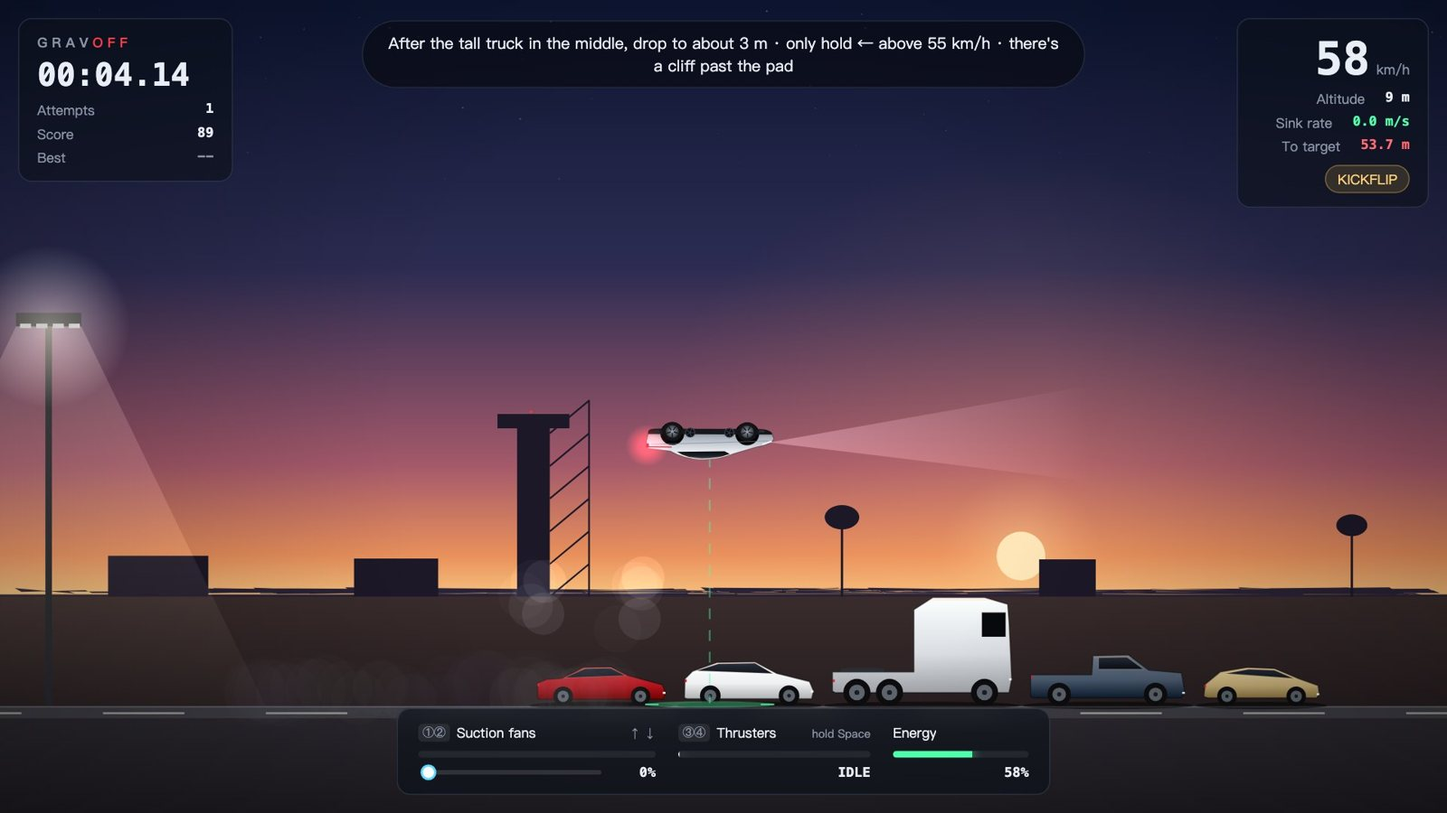
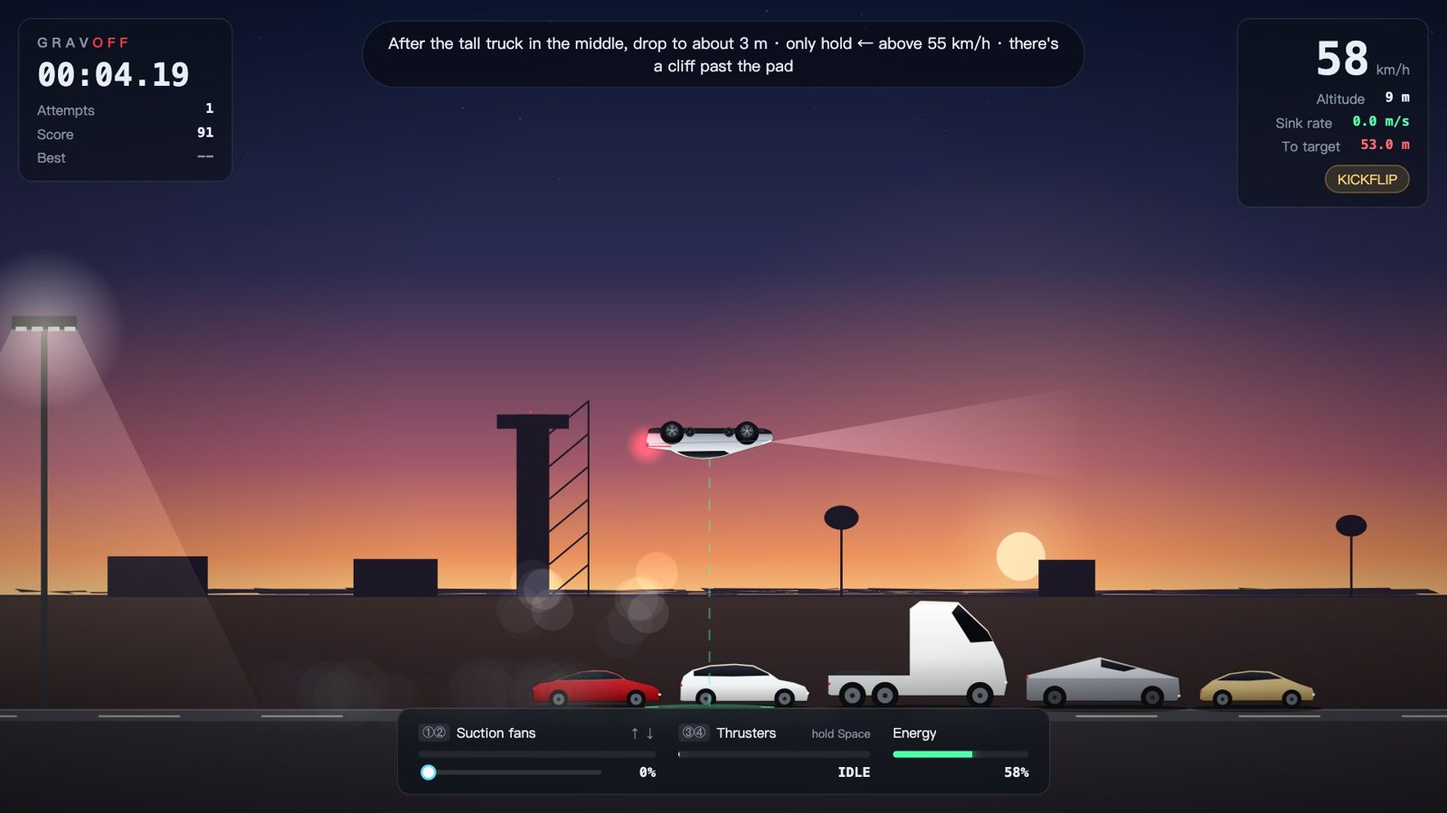
8 original 8-bit tracks picked at random per run; restyled parked cars

diff --git a/public/js/music.js b/public/js/music.js
@@ -1,19 +1,24 @@
 /* 8-bit 背景音乐（原创）
- * 两首曲子都是为本游戏原创编写的旋律，用 WebAudio 实时合成，不使用任何采样或外部音频文件，因此不存在版权问题；
- * 和弦进行与音阶属于通用音乐素材。
+ * 8 首曲子都是为本游戏原创编写的旋律，用 WebAudio 实时合成，不使用任何采样或外部音频文件，因此不存在版权问题；
+ * 和弦进行、音阶和节奏型属于通用音乐素材。每局随机播放一首（不和上一首重复），暂停菜单里可以换下一首。
  *
- * 两首曲子用两套不同的 8-bit 音色（inst）：
- *   loop「Inverted Deck」—— 8-bit 主机风格：50% 方波主旋律 + 重颤音、25% 脉冲 16 分音符琶音、三角波奔马贝斯、
- *                          切分低沉底鼓、八分音符镲；5-bit 量化 + 低通，偏暗、偏厚
- *   kick「Kickflip Over Five」—— 掌机风格：12.5% 细脉冲主旋律 + 回声、32 分音符三音快速琶音、25% 脉冲八度贝斯、
- *                          四拍底鼓 + 拍手军鼓 + 16 分音符镲和开镲；3-bit 量化，偏亮、偏颗粒
+ * 每首曲子有自己的音色（inst）和节奏型，风格各不相同：
+ *   loop     Inverted Deck       A 小调 132 BPM：8-bit 主机风格，方波主旋律 + 三角波奔马贝斯，偏暗偏厚
+ *   kick     Kickflip Over Five  D 大调 152 BPM：掌机风格，细脉冲主旋律 + 回声，四拍底鼓 + 拍手，偏亮
+ *   desert   Desert Sunset       E 小调 100 BPM：慢速半拍鼓，三角波长音 + 颤音，西部黄昏
+ *   neon     Neon Drift          C 小调 118 BPM：合成器浪潮，反拍镲 + 八度贝斯 + 回声
+ *   shuffle  Pit Lane Shuffle    G 布鲁斯 136 BPM：摇摆节奏（swing），行走贝斯，属七和弦
+ *   hyper    Hyper Boost         D 小调 174 BPM：碎拍鼓（底鼓 1、3.5 拍），16 分音符镲，最快最紧张
+ *   march    Launch Pad March    降 B 大调 112 BPM：进行曲，军鼓滚奏，根音 - 五度贝斯
+ *   waltz    Zero-G Waltz        A 大调 3/4 拍：圆舞曲，"嘭 - 恰 - 恰"
  *
  * 跟游戏节奏联动（setIntensity）：
  *   0 = 地面行驶：鼓 + 贝斯
  *   1 = 爬上半环 / 过起飞线：加入主旋律
  *   2 = 倒挂 / 腾空 / 降落：再加入快速琶音，紧张感最强
  *
- * 记谱：每小节 16 个十六分音符，用空格分隔；音名如 E5、F#4；"." 延续上一个音；"-" 休止
+ * 记谱：每小节 steps 个十六分音符（默认 16，3/4 拍为 12），用空格分隔；音名如 E5、F#4；"." 延续上一个音；"-" 休止
+ * 贝斯数组里 -1 表示这一步不弹
  */
 (function (root) {
   'use strict';
@@ -36,7 +41,7 @@
   const TRACKS = {
     // 倒立半环「Inverted Deck」：A 小调，132 BPM，切分底鼓，紧张向上
     loop: {
-      bpm: 132,
+      bpm: 132, title: { en: 'Inverted Deck', zh: '倒挂甲板' },
       chords: [['A2', 0, 3, 7], ['F2', 0, 4, 7], ['C3', 0, 4, 7], ['G2', 0, 4, 7], ['A2', 0, 3, 7], ['F2', 0, 4, 7], ['G2', 0, 4, 7], ['E2', 0, 4, 7]],
       lead: [
         'E5 . . C5 . A4 . . B4 C5 D5 . E5 . . .',
@@ -56,7 +61,7 @@
     },
     // 飞越车阵「Kickflip Over Five」：D 大调，152 BPM，四拍底鼓，明快冲刺
     kick: {
-      bpm: 152,
+      bpm: 152, title: { en: 'Kickflip Over Five', zh: '飞越五车' },
       chords: [['D3', 0, 4, 7], ['B2', 0, 3, 7], ['G2', 0, 4, 7], ['A2', 0, 4, 7], ['D3', 0, 4, 7], ['B2', 0, 3, 7], ['G2', 0, 4, 7], ['A2', 0, 4, 7]],
       lead: [
         'D5 . F#5 . A5 . F#5 . D5 . E5 F#5 . . A4 .',
@@ -73,6 +78,126 @@
       inst: { lead: 'p12', leadVol: 0.13, vib: 0.008, echo: true, arp: 'p12', arpNotes: 3, arpVol: 0.05, bass: 'p25', bassVol: 0.15,
         bits: 8, lowpass: 0, kickHz: [190, 55], snareHz: 2600, clap: true, level: 2.2 },
       fill: 'A4 B4 C#5 D5 E5 F#5 G5 A5 B5 C#6 D6 . E6 . F#6 .',
+    },
+    // 沙漠落日「Desert Sunset」：E 小调，100 BPM，半拍鼓，三角波长音
+    desert: {
+      bpm: 100, title: { en: 'Desert Sunset', zh: '沙漠落日' },
+      chords: [['E2', 0, 3, 7], ['C2', 0, 4, 7], ['D2', 0, 4, 7], ['E2', 0, 3, 7], ['E2', 0, 3, 7], ['C2', 0, 4, 7], ['D2', 0, 4, 7], ['B1', 0, 4, 7]],
+      lead: [
+        'B4 . . . E5 . . . G5 . F#5 . E5 . . .',
+        'G5 . . . E5 . C5 . . . E5 . G5 . . .',
+        'F#5 . . . D5 . A4 . . . D5 . F#5 . A5 .',
+        'G5 . . . . . F#5 . E5 . . . - - - -',
+        'B5 . . . A5 . G5 . F#5 . . . E5 . . .',
+        'G5 . . . E5 . . . C5 . E5 . G5 . A5 .',
+        'A5 . . . F#5 . D5 . . . A4 . D5 . F#5 .',
+        'D#5 . . . F#5 . . . B5 . . . A5 . F#5 .',
+      ],
+      kick: [0, 10], snare: [8], ghost: [], hatAccent: [4, 12], hats: [0, 4, 8, 12], openHat: [],
+      bass: [0, -1, -1, -1, -1, -1, 7, -1, 12, -1, -1, -1, 7, -1, -1, -1],
+      inst: { lead: 'triangle', leadVol: 0.16, vib: 0.025, echo: true, arp: 'p25', arpNotes: 1, arpVol: 0.035, bass: 'triangle', bassVol: 0.26, bassLen: 2,
+        bits: 16, lowpass: 2400, kickHz: [110, 40], snareHz: 1200, clap: false, level: 0.8 },
+      fill: 'E5 . F#5 . G5 . A5 . B5 . . . D#5 . F#5 .',
+    },
+    // 霓虹漂移「Neon Drift」：C 小调，118 BPM，反拍镲 + 八度贝斯
+    neon: {
+      bpm: 118, title: { en: 'Neon Drift', zh: '霓虹漂移' },
+      chords: [['C3', 0, 3, 7], ['G#2', 0, 4, 7], ['D#3', 0, 4, 7], ['A#2', 0, 4, 7], ['C3', 0, 3, 7], ['G#2', 0, 4, 7], ['A#2', 0, 4, 7], ['G2', 0, 4, 7]],
+      lead: [
+        'G5 . . . D#5 . . C5 . . D#5 . G5 . . .',
+        'G#5 . . . G5 . D#5 . C5 . . . D#5 . . .',
+        'A#5 . . . G5 . . D#5 . . G5 . A#5 . C6 .',
+        'A#5 . . . . . G#5 . G5 . F5 . D5 . . .',
+        'C6 . . . G5 . . D#5 . . G5 . C6 . D6 .',
+        'D#6 . . . C6 . G#5 . . . D#5 . G#5 . . .',
+        'D6 . . . A#5 . F5 . . . D5 . F5 . A#5 .',
+        'B5 . . . D6 . . . G5 . . . F5 . D5 .',
+      ],
+      kick: [0, 4, 8, 12], snare: [4, 12], ghost: [], hatAccent: [2, 6, 10, 14], hats: [2, 6, 10, 14], openHat: [],
+      bass: [0, 0, 12, 0, 0, 0, 12, 0, 0, 0, 12, 0, 0, 0, 12, 0],
+      inst: { lead: 'p25', leadVol: 0.12, vib: 0.015, echo: true, arp: 'p12', arpNotes: 2, arpVol: 0.045, bass: 'p50', bassVol: 0.14,
+        bits: 32, lowpass: 2600, kickHz: [150, 45], snareHz: 1800, clap: true, level: 2.1 },
+      fill: 'C5 D5 D#5 F5 G5 . G#5 . A#5 . B5 . D6 . . .',
+    },
+    // 维修区摇摆「Pit Lane Shuffle」：G 布鲁斯，136 BPM，摇摆八分音符 + 行走贝斯
+    shuffle: {
+      bpm: 136, title: { en: 'Pit Lane Shuffle', zh: '维修区摇摆' },
+      chords: [['G2', 0, 4, 10], ['C3', 0, 4, 10], ['G2', 0, 4, 10], ['G2', 0, 4, 10], ['C3', 0, 4, 10], ['C3', 0, 4, 10], ['G2', 0, 4, 10], ['D3', 0, 4, 10]],
+      lead: [
+        'G4 . A#4 B4 D5 . G4 . F5 . D5 . B4 . G4 .',
+        'E5 . G5 . A#5 . G5 E5 . . C5 . E5 . . .',
+        'D5 . B4 . G4 . A#4 B4 . . D5 . G5 . . .',
+        'F5 . . E5 D5 . B4 . A4 . G4 . - . . .',
+        'C5 . E5 . G5 . A#5 . . . G5 . E5 . C5 .',
+        'D#5 E5 . . G5 . E5 . D#5 E5 . . C5 . . .',
+        'B4 . D5 . G5 . F5 . D5 . B4 . A4 . G4 .',
+        'F#5 . A5 . C6 . A5 . F#5 . D5 . C5 . A4 .',
+      ],
+      kick: [0, 8, 11], snare: [4, 12], ghost: [7, 15], hatAccent: [2, 6, 10, 14], hats: [0, 2, 4, 6, 8, 10, 12, 14], openHat: [14],
+      bass: [0, -1, 4, -1, 7, -1, 9, -1, 10, -1, 9, -1, 7, -1, 4, -1],
+      inst: { lead: 'p50', leadVol: 0.1, vib: 0.02, echo: false, arp: 'p25', arpNotes: 1, arpVol: 0.04, bass: 'triangle', bassVol: 0.26, bassLen: 1.6,
+        bits: 16, lowpass: 3600, kickHz: [140, 45], snareHz: 2000, clap: false, swing: 0.66, level: 0.85 },
+      fill: 'G5 F5 D5 . B4 A#4 A4 G4 . . D5 . G5 . . .',
+    },
+    // 极速推进「Hyper Boost」：D 小调，174 BPM，碎拍鼓
+    hyper: {
+      bpm: 174, title: { en: 'Hyper Boost', zh: '极速推进' },
+      chords: [['D3', 0, 3, 7], ['A#2', 0, 4, 7], ['C3', 0, 4, 7], ['A2', 0, 3, 7], ['D3', 0, 3, 7], ['A#2', 0, 4, 7], ['G2', 0, 3, 7], ['A2', 0, 4, 7]],
+      lead: [
+        'D5 . F5 . A5 . D6 . C6 . A5 . F5 . E5 .',
+        'D5 . F5 . A#5 . D6 . C6 . A#5 . F5 . D5 .',
+        'E5 . G5 . C6 . E6 . D6 . C6 . G5 . E5 .',
+        'A5 . . . E5 . . . C5 . E5 . A5 . . .',
+        'D6 . A5 . F5 . D5 . F5 . A5 . D6 . E6 .',
+        'F6 . D6 . A#5 . F5 . A#5 . D6 . F6 . . .',
+        'G6 . D6 . A#5 . G5 . A#5 . D6 . G6 . F6 .',
+        'E6 . C#6 . A5 . E5 . C#5 . E5 . A5 . . .',
+      ],
+      kick: [0, 10], snare: [4, 12], ghost: [7, 9, 15], hatAccent: [2, 6, 10, 14], hats: [0, 1, 2, 3, 4, 5, 6, 7, 8, 9, 10, 11, 12, 13, 14, 15], openHat: [],
+      bass: [0, -1, -1, 0, -1, -1, 12, -1, -1, -1, 0, -1, -1, 7, -1, -1],
+      inst: { lead: 'p12', leadVol: 0.11, vib: 0, echo: true, arp: 'p12', arpNotes: 3, arpVol: 0.04, bass: 'p50', bassVol: 0.16, bassLen: 2,
+        bits: 8, lowpass: 0, kickHz: [200, 50], snareHz: 2800, clap: false, level: 2.1 },
+      fill: 'D6 C6 A5 F5 D6 C6 A5 F5 E6 C#6 A5 E5 E6 C#6 A5 E5',
+    },
+    // 发射台进行曲「Launch Pad March」：降 B 大调，112 BPM，军鼓滚奏
+    march: {
+      bpm: 112, title: { en: 'Launch Pad March', zh: '发射台进行曲' },
+      chords: [['A#2', 0, 4, 7], ['F2', 0, 4, 7], ['G2', 0, 3, 7], ['D#2', 0, 4, 7], ['A#2', 0, 4, 7], ['F2', 0, 4, 7], ['D#2', 0, 4, 7], ['F2', 0, 4, 7]],
+      lead: [
+        'A#4 . . F4 A#4 . D5 . F5 . . . D5 . A#4 .',
+        'C5 . . A4 C5 . F5 . A5 . . . F5 . C5 .',
+        'D5 . . . G5 . . F5 D5 . . . A#4 . G4 .',
+        'D#5 . . . G5 . . . A#5 . . . G5 . D#5 .',
+        'F5 . . D5 F5 . A#5 . D6 . . . A#5 . F5 .',
+        'A5 . . F5 A5 . C6 . F6 . . . C6 . A5 .',
+        'G5 . . D#5 G5 . A#5 . D#6 . . . D6 . C6 .',
+        'A#5 . . . A5 . . . C6 . . . A5 . F5 .',
+      ],
+      kick: [0, 8], snare: [4, 12, 14, 15], ghost: [6, 13], hatAccent: [], hats: [0, 4, 8, 12], openHat: [],
+      bass: [0, -1, -1, -1, 7, -1, -1, -1, 0, -1, -1, -1, 7, -1, -1, -1],
+      inst: { lead: 'p50', leadVol: 0.11, vib: 0.015, echo: false, arp: 'p25', arpNotes: 2, arpVol: 0.035, bass: 'triangle', bassVol: 0.28, bassLen: 2,
+        bits: 32, lowpass: 3000, kickHz: [120, 40], snareHz: 2200, clap: false, level: 0.9 },
+      fill: 'F5 . F5 F5 G5 . G5 G5 A5 . A5 A5 C6 . . .',
+    },
+    // 零重力圆舞曲「Zero-G Waltz」：A 大调，3/4 拍（每小节 12 个十六分音符），"嘭 - 恰 - 恰"
+    waltz: {
+      bpm: 168, steps: 12, title: { en: 'Zero-G Waltz', zh: '零重力圆舞曲' },
+      chords: [['A2', 0, 4, 7], ['E2', 0, 4, 7], ['F#2', 0, 3, 7], ['D2', 0, 4, 7], ['A2', 0, 4, 7], ['E2', 0, 4, 7], ['D2', 0, 4, 7], ['E2', 0, 4, 7]],
+      lead: [
+        'C#5 . . . E5 . . . A5 . . .',
+        'G#5 . . . . . F#5 . E5 . . .',
+        'F#5 . . . A5 . . . C#6 . . .',
+        'B5 . . . A5 . F#5 . D5 . . .',
+        'E5 . . . A5 . . . C#6 . E6 .',
+        'D6 . . . B5 . . . G#5 . E5 .',
+        'F#5 . . . A5 . . . D6 . . .',
+        'E6 . . . D6 . B5 . G#5 . . .',
+      ],
+      kick: [0], snare: [], ghost: [4, 8], hatAccent: [], hats: [0, 4, 8], openHat: [],
+      bass: [0, -1, -1, -1, 12, -1, -1, -1, 7, -1, -1, -1],
+      inst: { lead: 'p25', leadVol: 0.12, vib: 0.02, echo: true, arp: 'p12', arpNotes: 1, arpVol: 0.04, bass: 'triangle', bassVol: 0.26, bassLen: 2,
+        bits: 16, lowpass: 3000, kickHz: [120, 45], snareHz: 1600, clap: false, level: 0.92 },
+      fill: 'A5 G#5 F#5 E5 D5 C#5 B4 C#5 E5 . G#5 .',
     },
   };
   for (const k in TRACKS) { TRACKS[k].leadNotes = TRACKS[k].lead.map(parse); TRACKS[k].fillNotes = parse(TRACKS[k].fill); }
@@ -101,7 +226,7 @@
       if (this.out) return true;
       this.out = s.ctx.createGain(); this.out.gain.value = 0;
       this.out.connect(s.master);
-      this.waves = { p12: this.pulse(0.125), p25: this.pulse(0.25), p50: this.pulse(0.5) };
+      this.waves = { p12: this.pulse(0.125), p25: this.pulse(0.25), p50: this.pulse(0.5), triangle: 'triangle' };
       return true;
     }
     // 每首曲子一条独立的总线：分层 → 量化失真（位数随曲目）→ 可选低通 → 输出
@@ -121,10 +246,23 @@
       this.layer = layer;
     }
 
+    // 不传曲名：随机选一首，不和上一首重复
+    pick() {
+      const names = Object.keys(TRACKS).filter((k) => k !== this.last);
+      return names[Math.floor(Math.random() * names.length)];
+    }
+    // 下一首（按列表顺序循环）
+    nextTrack() {
+      const names = Object.keys(TRACKS), i = names.indexOf(this.last);
+      this.play(names[(i + 1) % names.length]);
+    }
+    get title() { return this.last ? TRACKS[this.last].title : null; }
     play(name) {
       if (!this.ensure()) return;
-      if (this.track === TRACKS[name] && this.timer) { this.duck(false); return; }
+      if (name && this.track === TRACKS[name] && this.timer) { this.duck(false); return; }
+      name = name || this.pick();
       this.stop(true);
+      this.last = name;
       this.track = TRACKS[name];
       this.buildBus(this.track.inst);
       const ctx = this.sfx.ctx;
@@ -176,7 +314,9 @@
       if (this.next < ctx.currentTime - 0.5) this.next = ctx.currentTime + 0.05;   // 标签页挂起后恢复：跳过积压
       const sd = this.stepDur, L = this.layer, W = this.waves, I = T.inst;
       while (this.next < ctx.currentTime + 0.15) {
-        const bars = T.chords.length, barIdx = Math.floor(this.step / 16), bar = barIdx % bars, st = this.step % 16, t = this.next;
+        const N = T.steps || 16, bars = T.chords.length, barIdx = Math.floor(this.step / N), bar = barIdx % bars, st = this.step % N;
+        // 摇摆：每拍第二个八分音符往后推（swing = 前一个八分音符占一拍的比例）
+        const sw = I.swing ? (4 * I.swing - 2) * sd : 0, t = this.next + (st % 4 === 2 ? sw : st % 4 === 3 ? sw / 2 : 0);
         const ch = T.chords[bar], root = midi(ch[0]);
         const isFill = (barIdx % (bars * 2)) === bars * 2 - 1;   // 每两轮的最后一小节：上行音阶过门
         // 主旋律（+ 可选回声）
@@ -192,14 +332,14 @@
         }
         // 贝斯
         const b = T.bass[st];
-        if (b >= 0) this.note(L.bass, freq(root + b), t, sd * 0.6, I.bass === 'triangle' ? 'triangle' : W[I.bass], st % 4 === 0 ? I.bassVol : I.bassVol * 0.75);
+        if (b >= 0) this.note(L.bass, freq(root + b), t, sd * (I.bassLen || 0.6), I.bass === 'triangle' ? 'triangle' : W[I.bass], st % 4 === 0 ? I.bassVol : I.bassVol * 0.75);
         // 鼓
         if (T.kick.includes(st)) this.kick(t, I.kickHz);
         if (T.snare.includes(st)) this.snare(t, 0.13, I);
         if (T.ghost.includes(st)) this.snare(t, 0.045, I);
         if (T.hats.includes(st)) this.hat(t, T.hatAccent.includes(st) ? 0.06 : 0.025, 0.03);
         if (T.openHat.includes(st)) this.hat(t, 0.04, 0.12);
-        if (isFill && st >= 12) this.snare(t, 0.07, I);   // 过门加鼓
+        if (isFill && st >= N - 4) this.snare(t, 0.07, I);   // 过门加鼓
         this.step++;
         this.next += sd;
       }

diff --git a/public/js/track.js b/public/js/track.js
@@ -145,23 +145,27 @@
   // ── 场景二：Kickflip 飞越车阵 ────────────────────────────
   // 停放车辆：通用车型剪影（轿车 / SUV / 皮卡 / 小型车 / 重卡，无任何标志）。局部坐标：x 从车尾 0 起（车头朝右），y 从地面 0 起
   const MODELS = {
+    // 车阵里的 5 辆车：纯剪影风格（不画任何标志、徽标或文字），坐标单位 m，x 从车尾到车头，y 从地面往上
     sedan:   { name: 'Sedan', len: 4.72, wr: 0.36, paint: '#b3141c', wheels: [0.95, 3.8],
-            body: [[0, 0.3], [0.02, 0.85], [0.35, 0.98], [0.9, 1.02], [1.7, 1.42], [2.7, 1.44], [3.35, 1.12], [4.6, 0.78], [4.72, 0.5], [4.65, 0.25], [0.1, 0.25]],
-            glass: [[1.0, 1.04], [1.75, 1.38], [2.7, 1.4], [3.25, 1.12]] },
+            // 低矮的溜背轿车：整块玻璃车顶从风挡一直延伸到车尾，短鸭尾
+            body: [[0, 0.32], [0.03, 0.82], [0.25, 0.96], [0.7, 1.02], [1.2, 1.18], [1.7, 1.36], [2.2, 1.44], [2.7, 1.43], [3.1, 1.31], [3.45, 1.1], [3.9, 0.99], [4.4, 0.87], [4.65, 0.72], [4.72, 0.55], [4.65, 0.3], [0.1, 0.28]],
+            glass: [[0.85, 1.05], [1.3, 1.21], [1.8, 1.37], [2.25, 1.4], [2.7, 1.39], [3.08, 1.28], [3.36, 1.11], [2.2, 1.07]] },
     suv:     { name: 'SUV', len: 4.75, wr: 0.38, paint: '#eef0f2', wheels: [0.95, 3.85],
-            body: [[0, 0.3], [0.02, 1.0], [0.3, 1.28], [1.2, 1.6], [2.6, 1.62], [3.4, 1.2], [4.6, 0.9], [4.75, 0.55], [4.68, 0.27], [0.1, 0.27]],
-            glass: [[0.45, 1.3], [1.25, 1.56], [2.6, 1.58], [3.25, 1.2]] },
-    pickup:  { name: 'Pickup', len: 5.68, wr: 0.43, paint: '#4a5a6e', wheels: [1.05, 4.6],
-            // 常见的皮卡造型：后面是货斗，中间是驾驶室，前面是引擎盖
-            body: [[0, 0.35], [0, 1.15], [2.25, 1.15], [2.3, 1.85], [3.6, 1.88], [4.35, 1.32], [5.55, 1.22], [5.68, 0.5], [5.55, 0.3], [0.12, 0.3]],
-            glass: [[2.5, 1.78], [3.55, 1.8], [4.15, 1.36], [2.5, 1.36]] },
+            // 圆润的跨界 SUV：高车顶，圆弧尾门，短而圆的车头
+            body: [[0, 0.32], [0.02, 0.95], [0.12, 1.22], [0.45, 1.45], [1.1, 1.62], [2.0, 1.68], [2.7, 1.62], [3.3, 1.33], [3.65, 1.09], [4.2, 0.98], [4.6, 0.84], [4.75, 0.6], [4.68, 0.3], [0.1, 0.29]],
+            glass: [[0.5, 1.4], [1.12, 1.57], [2.0, 1.63], [2.68, 1.57], [3.24, 1.31], [3.3, 1.23], [1.9, 1.2], [0.5, 1.22]] },
+    pickup:  { name: 'Pickup', len: 5.68, wr: 0.43, paint: '#a9adb3', wheels: [1.05, 4.65], flat: true,
+            // 楔形皮卡：车斗和车顶连成一条直线升到车顶尖，再一条直线降到车头；拉丝不锈钢车身
+            body: [[0, 0.35], [0, 1.25], [2.7, 1.92], [5.62, 1.15], [5.68, 0.5], [5.55, 0.3], [0.12, 0.3]],
+            glass: [[2.75, 1.84], [4.1, 1.5], [3.6, 1.38], [2.75, 1.55]] },
     compact: { name: 'Compact', len: 4.25, wr: 0.36, paint: '#c8b07a', wheels: [0.85, 3.4],
-            body: [[0, 0.35], [0.05, 0.8], [0.6, 1.25], [1.6, 1.42], [2.6, 1.38], [3.5, 1.0], [4.2, 0.75], [4.25, 0.45], [4.15, 0.3], [0.15, 0.3]],
-            glass: [[0.8, 1.2], [1.65, 1.36], [2.6, 1.32], [3.3, 1.02]] },
-    truck:   { name: 'Truck', len: 6.6, wr: 0.5, paint: '#d9dde2', wheels: [0.9, 2.1, 5.6],
-            // 常见的平头牵引车：后面是鞍座底盘，前面是方正的驾驶室，车顶有导流罩
-            body: [[0, 0.55], [0, 1.25], [3.0, 1.25], [3.0, 3.55], [3.7, 4.0], [5.6, 4.0], [6.45, 3.75], [6.5, 3.1], [6.6, 1.0], [6.5, 0.5], [0.1, 0.5]],
-            glass: [[5.5, 3.45], [6.38, 3.45], [6.38, 2.55], [5.5, 2.55]] },
+            // 双门小型车：水滴形车身，车尾斜着收下去，香槟金
+            body: [[0, 0.36], [0.04, 0.72], [0.45, 1.05], [1.1, 1.32], [1.9, 1.43], [2.6, 1.39], [3.2, 1.13], [3.7, 0.93], [4.15, 0.78], [4.25, 0.55], [4.18, 0.32], [0.15, 0.3]],
+            glass: [[0.62, 1.05], [1.15, 1.28], [1.9, 1.38], [2.55, 1.34], [3.08, 1.12], [1.8, 1.04]] },
+    truck:   { name: 'Truck', len: 6.6, wr: 0.5, paint: '#e8eaec', wheels: [0.9, 2.1, 5.6],
+            // 流线型牵引车：后面是鞍座底盘，驾驶室从车顶圆滑地斜下到车头
+            body: [[0, 0.55], [0, 1.25], [3.0, 1.25], [3.0, 3.7], [3.4, 4.0], [4.8, 3.95], [5.9, 2.9], [6.45, 1.8], [6.6, 1.0], [6.5, 0.5], [0.1, 0.5]],
+            glass: [[4.8, 3.86], [5.86, 2.87], [6.08, 2.5], [5.25, 2.45], [4.55, 3.55]] },   // 环绕式大风挡
   };
   const PAD_GAP = +(typeof process !== 'undefined' && process.env && process.env.PAD_GAP) || 20;   // 最后一辆车到停机坪的距离
   function parked(x, model, paint) {

diff --git a/public/js/i18n.js b/public/js/i18n.js
@@ -24,7 +24,7 @@
       'jet.on': '喷射', 'jet.brake': '反推', 'jet.idle': '待命', 'jet.locked': '锁定',
       'fan.low': '吸力不足', 'fan.waste': '吸力富余', 'fan.ok': '吸力 OK', 'fan.grip': '吸地 · 抓地+', 'fan.yield': '喷气时让位',
       'touch.brake': '刹车', 'touch.go': '加速', 'touch.fanUp': '风扇＋', 'touch.fanDn': '风扇－', 'touch.retry': '重来', 'touch.flip': '翻转', 'touch.jet': '推进',
-      'touch.fans': '风扇±', 'sound.on': '声音：开', 'sound.off': '声音：关',
+      'touch.fans': '风扇±', 'music.next': '下一首', 'sound.on': '声音：开', 'sound.off': '声音：关',
       'how.fansT': '吸附风扇功率：不低于白线，开太大很耗能（也可以拖动上方的滑块）',
       'how.stopT': '飞越车阵落地后要停稳才结算：开大风扇会吸住地面减速（风扇越大停得越快），再按 ◀ 刹车会更猛',
       'how.noteT': '游戏中屏幕上方会实时提示下一步。◀ 和 ▶ 之间可以按住直接滑动切换，不用抬手。',
@@ -112,7 +112,7 @@
       'jet.on': 'FIRING', 'jet.brake': 'REVERSE', 'jet.idle': 'IDLE', 'jet.locked': 'LOCKED',
       'fan.low': 'TOO WEAK', 'fan.waste': 'OVERKILL', 'fan.ok': 'GRIP OK', 'fan.grip': 'GRIP+', 'fan.yield': 'YIELD TO JETS',
       'touch.brake': 'Brake', 'touch.go': 'Go', 'touch.fanUp': 'Fan +', 'touch.fanDn': 'Fan −', 'touch.retry': 'Retry', 'touch.flip': 'Flip', 'touch.jet': 'Boost',
-      'touch.fans': 'Fan ±', 'sound.on': 'Sound: On', 'sound.off': 'Sound: Off',
+      'touch.fans': 'Fan ±', 'music.next': 'Next track', 'sound.on': 'Sound: On', 'sound.off': 'Sound: Off',
       'how.fansT': 'Fan power: stay above the white line – overdoing it drains energy fast (you can also drag the slider at the top)',
       'how.stopT': 'Car Jump scores once you stop: fan suction slows the car on the ground (more fan, shorter stop); ◀ brakes even harder',
       'how.noteT': 'Hints at the top tell you what to do next. Slide your thumb between ◀ and ▶ without lifting it.',

diff --git a/public/js/render.js b/public/js/render.js
@@ -317,7 +317,11 @@
         ctx.fillStyle = '#2a2d33'; ctx.fillRect(ox + 0.3, 1.25, 1.6, 0.15);
       }
       const gr = ctx.createLinearGradient(0, pc.y1, 0, 0.2);
-      gr.addColorStop(0, shade(pc.paint, 35)); gr.addColorStop(0.55, pc.paint); gr.addColorStop(1, shade(pc.paint, -70));
+      if (M.flat) {   // 拉丝不锈钢：硬朗的分层反光
+        gr.addColorStop(0, '#e2e5e9'); gr.addColorStop(0.45, '#b8bcc2'); gr.addColorStop(0.46, '#8d9299'); gr.addColorStop(1, '#5b5f66');
+      } else {
+        gr.addColorStop(0, shade(pc.paint, 35)); gr.addColorStop(0.55, pc.paint); gr.addColorStop(1, shade(pc.paint, -70));
+      }
       ctx.fillStyle = gr; ctx.fill(pc.polyPath);
       ctx.strokeStyle = 'rgba(0,0,0,0.4)'; ctx.lineWidth = 0.04; ctx.stroke(pc.polyPath);
       // 夕阳在车顶的反光
@@ -331,7 +335,7 @@
       for (const wx of M.wheels) {
         const x = ox + wx, r = M.wr;
         ctx.fillStyle = '#0d0d0f'; ctx.beginPath(); ctx.arc(x, r, r, 0, Math.PI * 2); ctx.fill();
-        ctx.fillStyle = '#5d646d'; ctx.beginPath(); ctx.arc(x, r, r * 0.58, 0, Math.PI * 2); ctx.fill();
+        ctx.fillStyle = M.flat ? '#3a3d42' : '#5d646d'; ctx.beginPath(); ctx.arc(x, r, r * 0.58, 0, Math.PI * 2); ctx.fill();
         ctx.fillStyle = '#1b1d22'; ctx.beginPath(); ctx.arc(x, r, r * 0.18, 0, Math.PI * 2); ctx.fill();
       }
       // 贯穿式灯带（前白后红）

diff --git a/public/js/main.js b/public/js/main.js
@@ -187,7 +187,8 @@
   }
   function start() {
     sfx.init();
-    music.play(mode);
+    music.play();   // 每局随机一首（不和上一首重复）
+    syncTrack();
     newRun();
     $('popups').innerHTML = '';
     state = 'play';
@@ -229,6 +230,15 @@
   $('resumeBtn').onclick = togglePause;
   $('retryBtn').onclick = () => { togglePause(); restartAttempt(); };
   $('menuBtn').onclick = toMenu;
+  // 暂停菜单：显示当前曲目，点一下换下一首
+  function syncTrack() {
+    const t = music.title, b = $('trackBtn');
+    if (!t) return;
+    b.textContent = '♪ ' + t[CF.I18N.lang] + '  »';
+    b.title = T('music.next'); b.setAttribute('aria-label', t[CF.I18N.lang] + ' – ' + T('music.next'));
+  }
+  $('trackBtn').onclick = () => { music.nextTrack(); music.duck(true); syncTrack(); };
+  CF.I18N.onChange(syncTrack);
   const syncSound = () => { $('soundBtn').textContent = T(sfx.muted ? 'sound.off' : 'sound.on'); };
   $('soundBtn').onclick = () => { sfx.setMuted(!sfx.muted); syncSound(); };
   CF.I18N.onChange(syncSound); syncSound();

diff --git a/public/index.html b/public/index.html
@@ -161,6 +161,7 @@
       <button class="cta" id="resumeBtn" data-i18n="btn.resume">继续</button>
       <button class="ghost" id="retryBtn" data-i18n="btn.retry">重来这一次</button>
       <button class="ghost" id="restartBtn" data-i18n="btn.restart">从头开始</button>
+      <button class="ghost" id="trackBtn"></button>
       <button class="ghost touch-only" id="soundBtn"></button>
       <button class="ghost" id="menuBtn" data-i18n="btn.toMenu">返回菜单</button>
     </div>

diff --git a/public/css/style.css b/public/css/style.css
@@ -439,3 +439,6 @@ body.touch .hint { top: 96px; bottom: auto; max-width: min(560px, 56vw); font-si
   body.touch .tc button.big { width: 84px; height: 84px; }
   body.touch .tc button.ico { width: 40px; height: 40px; }
 }
+
+/* 暂停菜单：当前曲目，点一下换下一首 */
+#trackBtn { white-space: nowrap; overflow: hidden; text-overflow: ellipsis; color: #9fe3ff; }

diff --git a/README.md b/README.md
@@ -8,7 +8,7 @@
 
 **Gravity is optional. Landing isn't.**
 
-A tiny browser game about a sports car with suction fans and cold-gas thrusters: drive upside down, fly over a row of cars, and land on the target. Plain JavaScript + Canvas, no build step, no dependencies. Works on desktop and on phones (portrait or landscape).
+A tiny browser game about a sports car with suction fans and cold-gas thrusters: drive upside down, fly over a row of cars, and land on the target. Plain JavaScript + Canvas, no build step, no dependencies. Eight original 8-bit tracks, one picked at random each run. Works on desktop and on phones (portrait or landscape).
 
 ![GRAVOFF start screen](docs/images/menu.jpg)
 
@@ -87,6 +87,8 @@ A hard landing, landing upside down or rolling off the cliff halves your score. 
 | Space | Thrusters (hold) |
 | F / G | Kickflip / jet barrel roll |
 | R / P / M | Retry / pause / mute |
+
+The pause menu shows the current track – click it to skip to the next one.
 
 **Phones and tablets** show on-screen buttons in both portrait and landscape:
 - Left thumb: ◀ ▶, plus Flip and Roll, so your right thumb can keep holding Boost.

diff --git a/README.zh-CN.md b/README.zh-CN.md
@@ -8,7 +8,7 @@
 
 **重力可选，落地必修。**（Gravity is optional. Landing isn't.）
 
-一个小小的浏览器游戏：一辆装了吸附风扇和冷气推进器的跑车，倒挂行驶、飞越车阵、精准落在目标点上。纯 JavaScript + Canvas，不需要构建，没有任何依赖。电脑和手机（横屏、竖屏）都能玩。
+一个小小的浏览器游戏：一辆装了吸附风扇和冷气推进器的跑车，倒挂行驶、飞越车阵、精准落在目标点上。纯 JavaScript + Canvas，不需要构建，没有任何依赖。8 首原创 8-bit 背景音乐，每局随机播放一首。电脑和手机（横屏、竖屏）都能玩。
 
 ![GRAVOFF 开始页](docs/images/menu-zh.jpg)
 
@@ -87,6 +87,8 @@ npm start            # → http://localhost:8080
 | 空格 | 推进器（按住） |
 | F / G | Kickflip / 喷气侧滚 |
 | R / P / M | 重来 / 暂停 / 静音 |
+
+暂停菜单里显示当前曲目，点一下换下一首。
 
 **手机和平板**会显示屏幕按钮，横屏和竖屏都适配：
 - 左手：◀ ▶，加上翻转和侧滚，这样右手可以一直按住推进。
